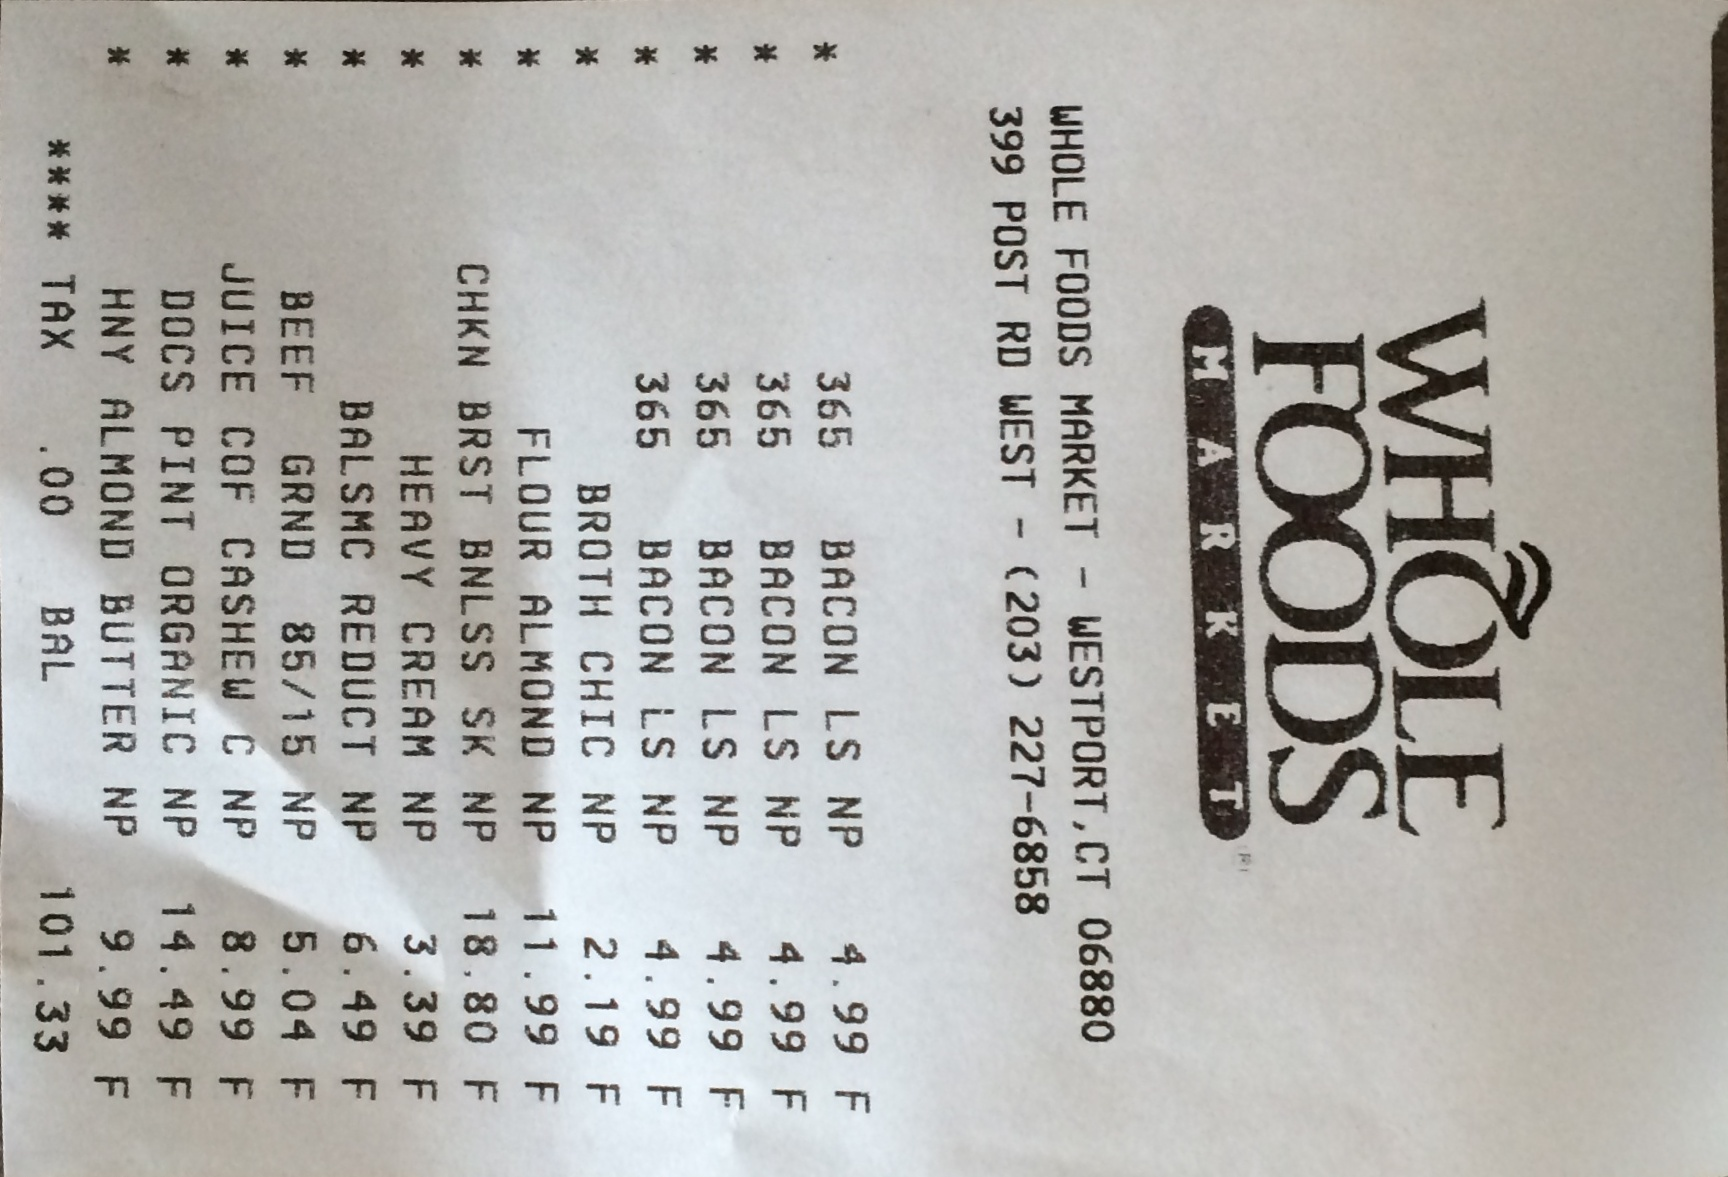
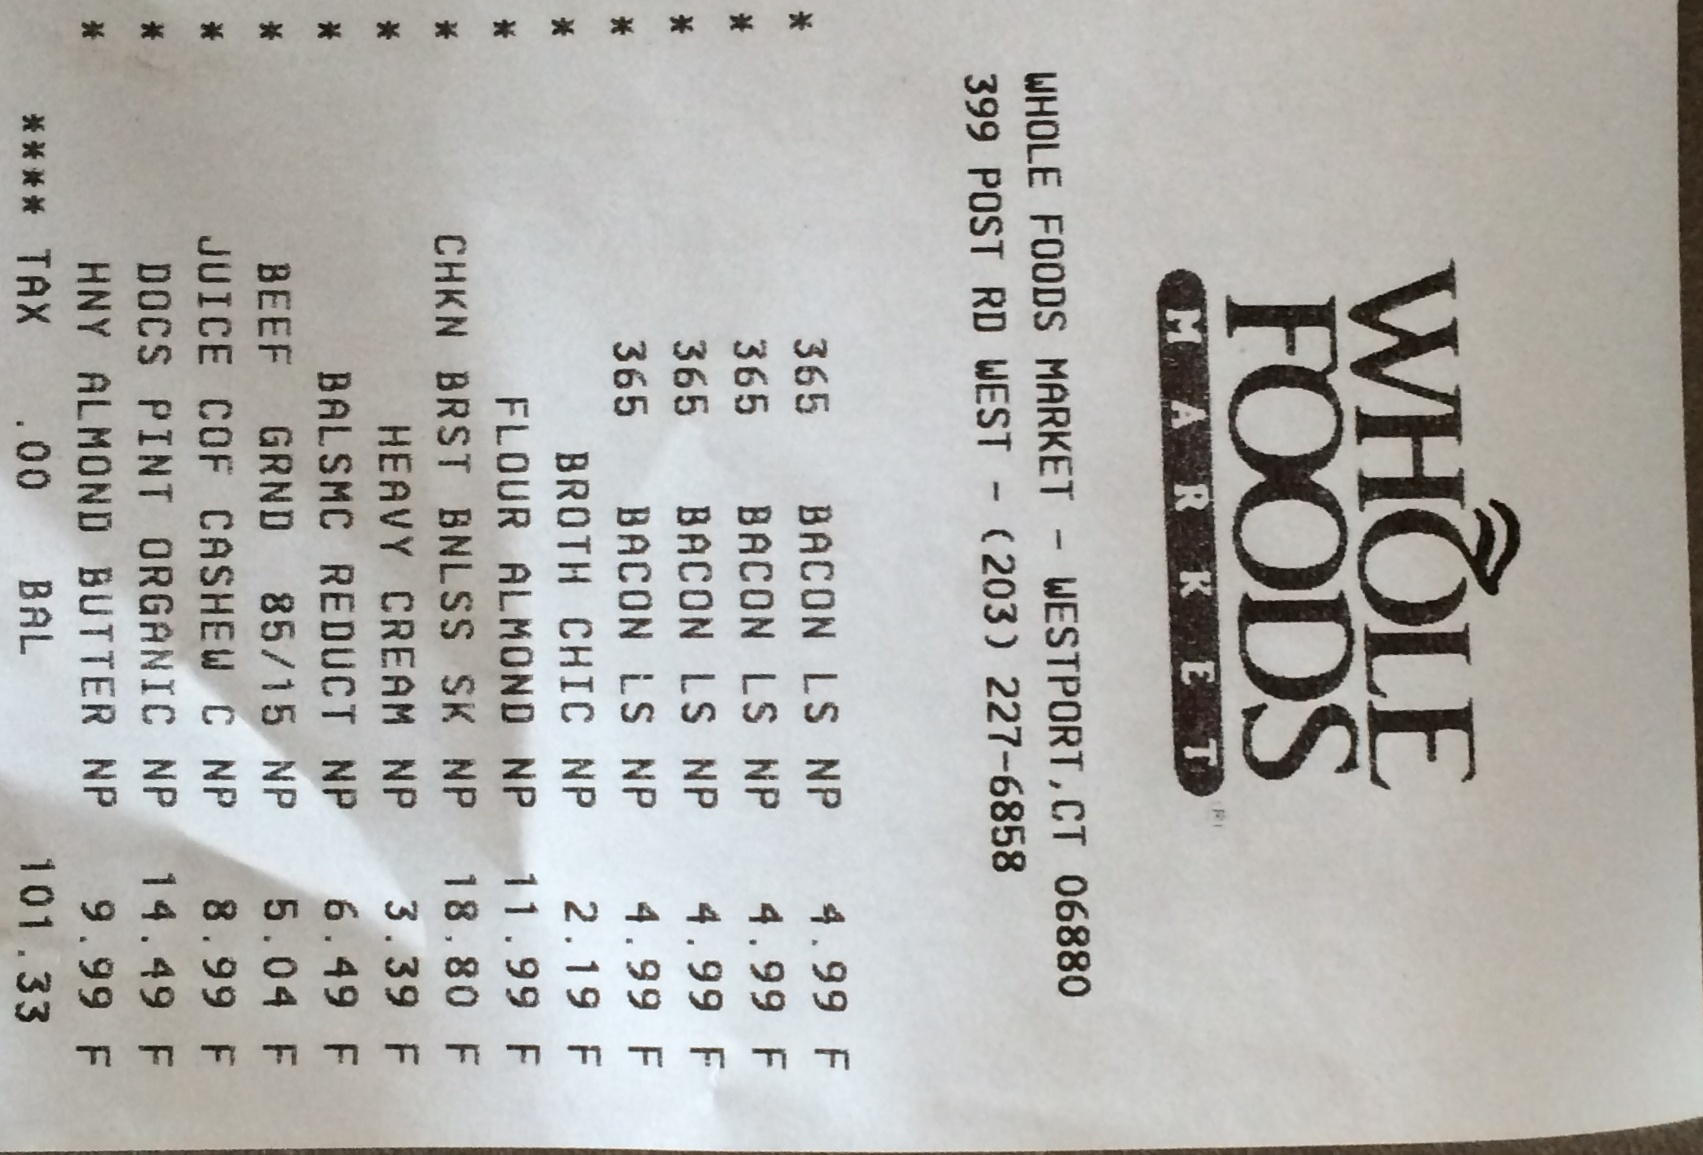
Changed filters and added erosion and dilation techniques. Also added few samples to test code

diff --git a/OCR_preprocess/OCR_preprocess.py b/OCR_preprocess/OCR_preprocess.py
@@ -6,28 +6,78 @@ import numpy as np
 import cv2 
 import imutils
 
+#Getting image from path and then resizing it for preprocessing
 path = r"C:\Users\nauri\source\repos\OCR_preprocess\OCR_preprocess\images"
-image = cv2.imread(path + "\img1.jpg")
+image = cv2.imread(path + "\image2.jpg")
 ratio = image.shape[0]/500.0
 orig = image.copy()
 image = imutils.resize(image, height=500)
 
+#converting image to grayscale and then applying filters
 gray = cv2.cvtColor(image, cv2.COLOR_BGR2GRAY)
-gray = cv2.GaussianBlur(gray, (5, 5), 0)
-edged = cv2.Canny(gray, 75, 200)
+gray = cv2.bilateralFilter(gray, 9, 75, 75)
+img = cv2.adaptiveThreshold(gray, 255, cv2.ADAPTIVE_THRESH_GAUSSIAN_C, cv2.THRESH_BINARY, 115, 4)	
+img = cv2.medianBlur(img, 11)	
+img = cv2.copyMakeBorder(img, 5, 5, 5, 5, cv2.BORDER_CONSTANT, value=[0, 0, 0])	
 
-cnts = cv2.findContours(edged.copy(), cv2.RETR_LIST, cv2.CHAIN_APPROX_SIMPLE)
-cnts = imutils.grab_contours(cnts)
-cnts = sorted(cnts, key = cv2.contourArea, reverse = True)[:5]
+#applying erosion and dilation techniques to reduce noise in regions as well as reducing smaller irrelevant regions
+thresh = cv2.erode(img, None, iterations=7)
+thresh = cv2.dilate(thresh, None, iterations=7)
 
-for c in cnts:
-	peri = cv2.arcLength(c, True)
-	approx = cv2.approxPolyDP(c, 0.02 * peri, True)
-	if len(approx) == 4:
-		screenCnt = approx
-		break
+#applying canny filter to get edges
+edges = cv2.Canny(thresh, 200, 250)
 
-warped = four_point_transform(orig, screenCnt.reshape(4,2) * ratio)
+#finding countours in the image
+contours = cv2.findContours(edges, cv2.RETR_TREE, cv2.CHAIN_APPROX_SIMPLE)
+contours = imutils.grab_contours(contours)
+contours = sorted(contours, key = cv2.contourArea, reverse = True)[:5]
+
+height = edges.shape[0]	
+width = edges.shape[1]
+#MAX_COUNTOUR_AREA = (width - 10) * (height - 10)	
+
+#maxAreaFound = MAX_COUNTOUR_AREA * 0.5	
+
+#default initialization for page countours
+pageContour = np.array([[5, 5], [5, height-5], [width-5, height-5], [width-5, 5]])	
+
+for cnt in contours:
+    # Simplify contour
+    perimeter = cv2.arcLength(cnt, True)
+    approx = cv2.approxPolyDP(cnt, 0.03 * perimeter, True)
+
+    # Page has 4 corners and it is convex
+    # Page area must be bigger than maxAreaFound 
+    if (len(approx) == 4 and
+            cv2.isContourConvex(approx) and
+            """maxAreaFound < cv2.contourArea(approx) < MAX_COUNTOUR_AREA"""):
+
+        maxAreaFound = cv2.contourArea(approx)
+        pageContour = approx
+
+#gray = cv2.GaussianBlur(gray, (5, 5), 0)
+#edged = cv2.Canny(gray, 75, 200)
+
+#cnts = cv2.findContours(thresh.copy(), cv2.RETR_LIST, cv2.CHAIN_APPROX_SIMPLE)
+#cnts = imutils.grab_contours(cnts)
+#c = max(cnts, key=cv2.contourArea)
+#cv2.drawContours(image, [c], -1, (0, 255, 255), 2)
+
+#cv2.imshow("Image", image)
+#cv2.waitKey(0)
+
+#cnts = sorted(cnts, key = cv2.contourArea, reverse = True)[:5]
+
+#for c in cnts:
+#	peri = cv2.arcLength(c, True)
+#	approx = cv2.approxPolyDP(c, 0.02 * peri, True)
+#	if len(approx) == 4:
+#		screenCnt = approx
+#		break
+
+#applying four point transform function from fpoint_transform.py file
+warped = four_point_transform(orig, pageContour[:, 0] * ratio)
+
 #warped = cv2.cvtColor(warped, cv2.COLOR_BGR2GRAY)
 #T = threshold_local(warped, 11, offset = 10, method = "gaussian")
 #warped = (warped > T).astype("uint8") * 255
